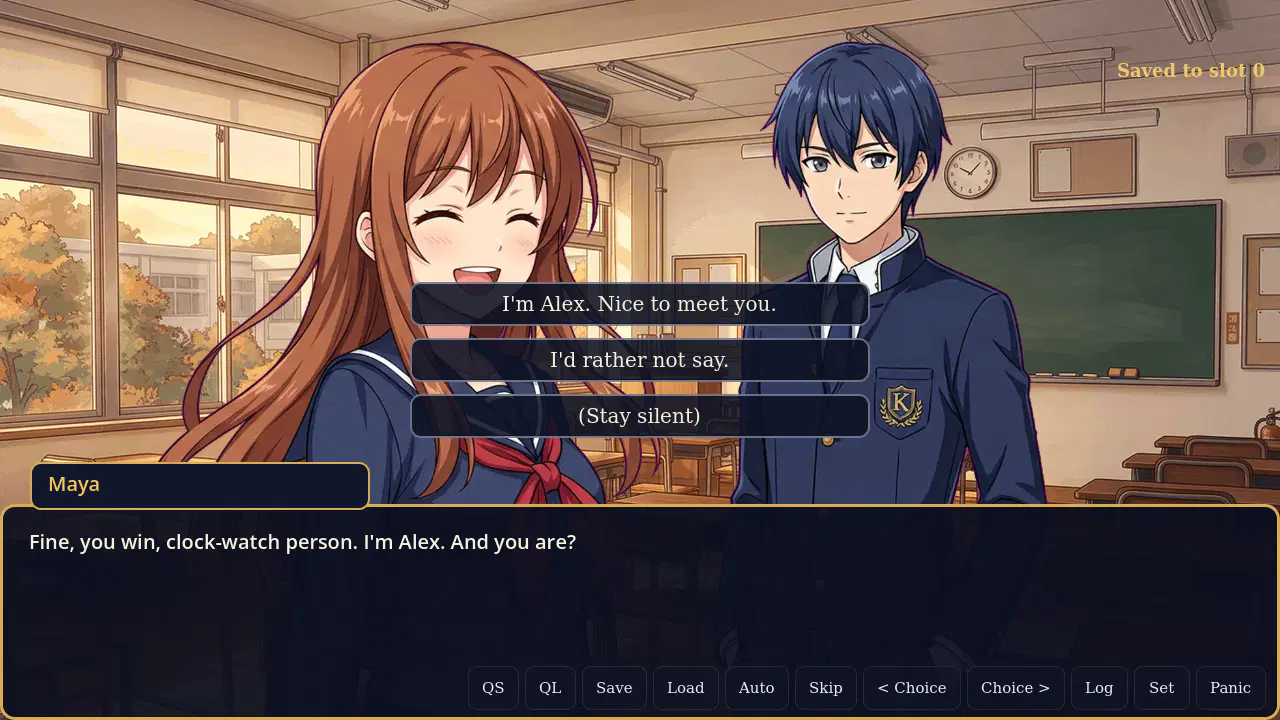
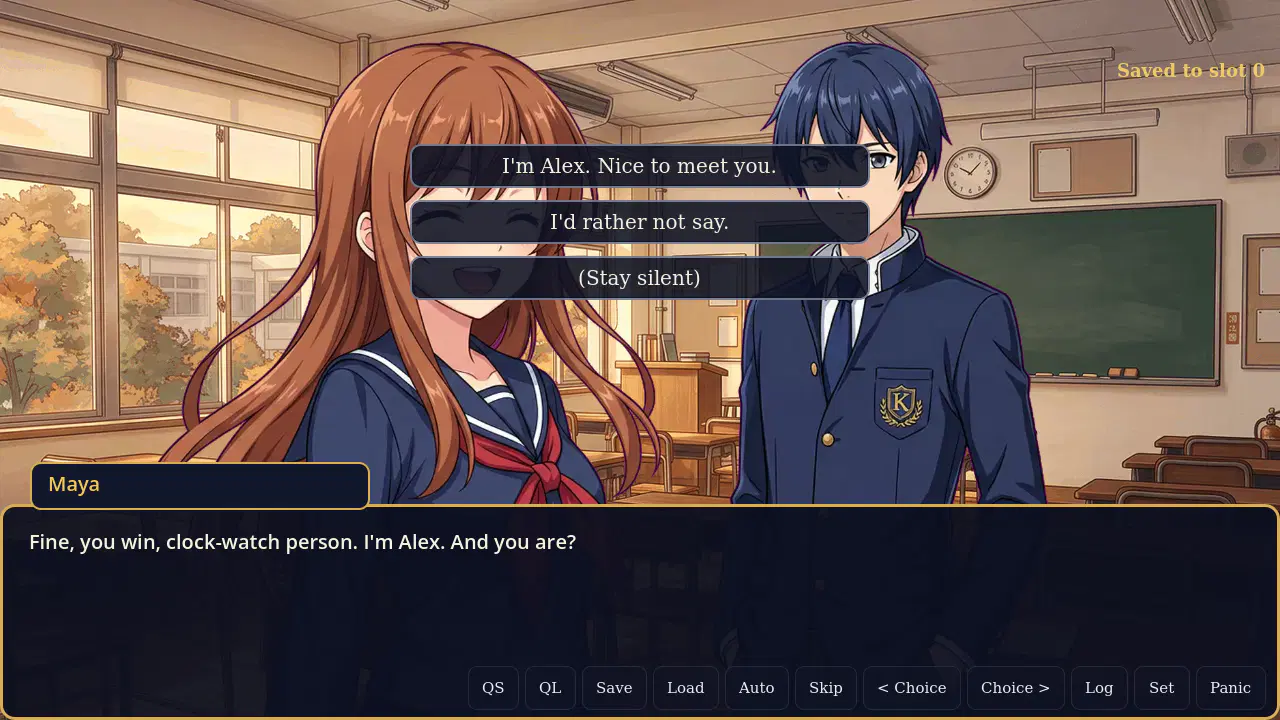
v1.11.0: choices band above box, settings close button, portrait reflow
- ResponsesCenter anchored in a band above the dialogue box (child of
  BottomUI) so choices can never render behind/below it on tall or
  portrait windows
- SettingsCloseButton (X, top-right) shown with the panel: touch users
  can exit settings; Esc still works
- portrait mode: settings rows (BoxContainer) flip vertical, sliders
  wrap below labels, panel margins collapse to near-fullscreen width;
  auto-detected on window size changes, overridable for tests
- docs: 13_settings_portrait.webp; RECREATION pitfalls updated
- suite 221/221

Changed region(s): [[0.3125, 0.1833, 0.6875, 0.6111]]

diff --git a/README.md b/README.md
@@ -31,7 +31,9 @@ A complete Godot **4.7.2** project using **nathanhoad/godot_dialogue_manager v4.
   (`docs/09_settings.webp`, `docs/10_pause.webp`, `docs/11_panic.webp`)
 - **mobile controls**: with `input_devices/pointing/emulate_mouse_from_touch` enabled,
   taps drive the same click/advance path, an upward swipe opens the history backlog, and
-  every control is an authored touch target
+  every control is an authored touch target; settings get an on-screen close button and a
+  portrait layout that wraps each slider under its label, fullscreen-wide
+  (`docs/13_settings_portrait.webp`)
 - **voiced dialogue**: all fourteen spoken character lines carry `#voice=` tags and play
   per-character clips (Maya and Rook) on the Voice bus, silenced again on unvoiced lines;
   the clips were generated as Opus but ship as tightly packed Ogg Vorbis (mono, 32 kbps)
@@ -42,7 +44,7 @@ A complete Godot **4.7.2** project using **nathanhoad/godot_dialogue_manager v4.
 - **styled text**: BBCode (`[b]`, `[i]`, `[color=…]`, …) renders in the typewriter label;
   the backlog and save-slot labels store the same lines without markup
 
-Verified headless with `Godot_v4.7.2-stable_linux.x86_64`: **214/214 checks pass**, zero
+Verified headless with `Godot_v4.7.2-stable_linux.x86_64`: **221/221 checks pass**, zero
 `SCRIPT ERROR` / `Parse Error` in import, runtime and editor logs. Real rendered frames are
 saved in `docs/` (captured under Xvfb).
 
@@ -206,6 +208,9 @@ the clip length so typing ends as the voice does, and the checks assert both the
 value and the fallback to the configured text speed. v1.10 enables BBCode-styled dialogue
 (the typewriter label renders the markup while the backlog and save labels store it
 stripped), ships the user documentation set, and stores the doc screenshots as WebP.
+v1.11 anchors the choice menu in a band above the dialogue box (it could slip behind the
+box on tall/portrait windows), adds the settings close button and the portrait reflow,
+and the repo history was purged of the pre-WebP PNG blobs.
 
 ## Documentation
 

diff --git a/docs/RECREATION.md b/docs/RECREATION.md
@@ -64,6 +64,11 @@ Balloon (Control, full rect, gui_input = advance/click/wheel)
 - **Headless CI**: guard every `DisplayServer.window_*` call with a `headless` name check.
 - **Scrolling lists**: `ScrollContainer.follow_focus` only scrolls when content actually
   overflows.
+- **Choices placement**: anchor the responses menu in a band *above* the dialogue box
+  (child of the bottom UI with negative top offset), not centered on the screen — with a
+  tall/wrapped box the centered menu slips behind it.
+- **Portrait**: settings rows authored as `BoxContainer` so the runtime can flip
+  `vertical` and wrap sliders under their labels.
 
 ## 5. Verification
 
